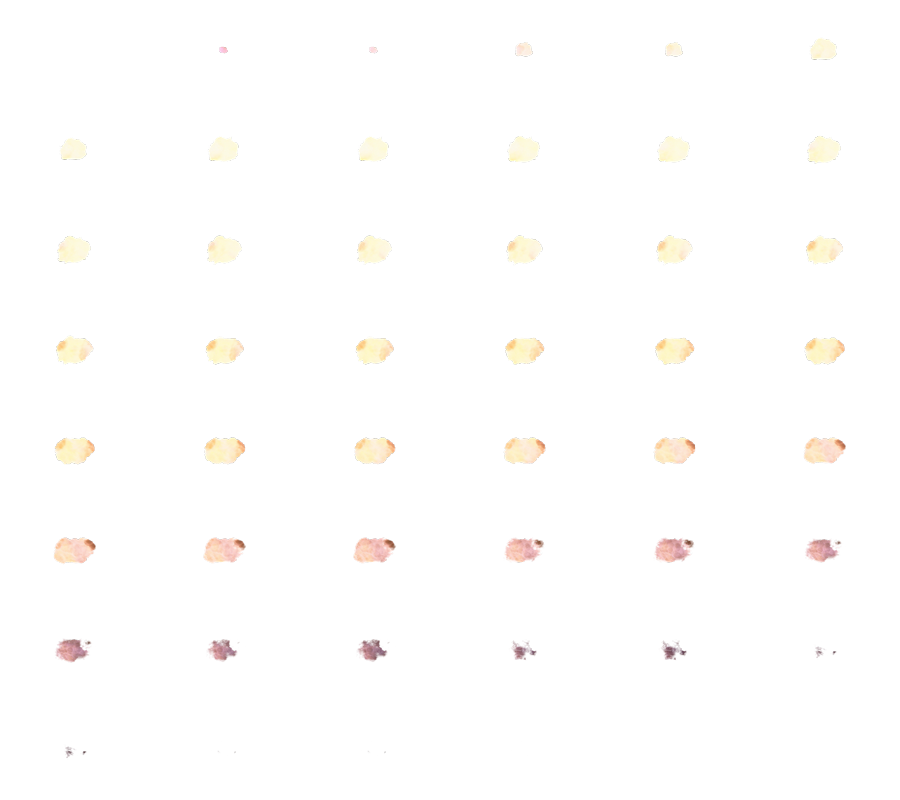
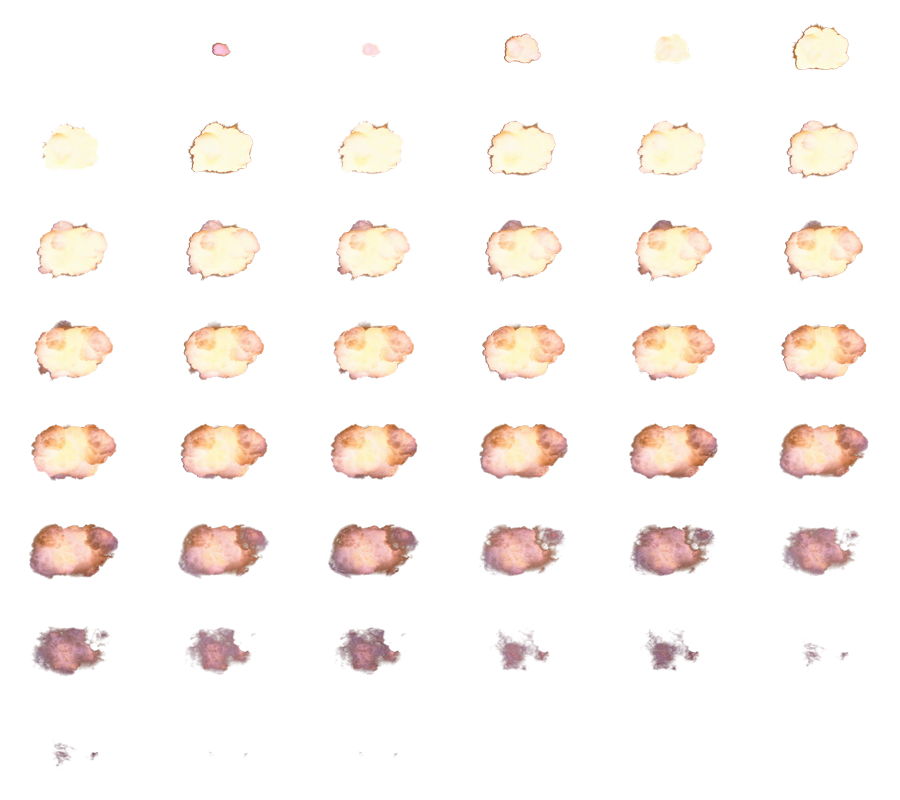
updated alpha

diff --git a/augmented-paintings/into-the-woods_edge.js b/augmented-paintings/into-the-woods_edge.js
@@ -1,2 +1,2 @@
 
-(function($,Edge,compId){var _=null,y=true,n=false,zy='scaleY',t='transform',c='color',x4='rgba(0,0,0,0)',g='image',x1='2.0.1',e27='${_Into-the-Woods-woman}',x35='222.2px 478.20001831055px',e34='${_petal-5}',x33='235px 471px',a='Base State',e17='${_Explosion}',e32='${_petal2}',x21='hidden',s='style',x26='234.5px 477.75001220703px',dt='Default Timeline',qiq='easeInQuad',e28='${_petal1}',x3='2.0.1.268',r='deg',x18='rect(@@0@@px @@1@@px @@2@@px @@3@@px)',qoq='easeOutQuad',x29='219.43646748861px 479.17227172852px',e30='${_petal-4}',p='px',o='opacity',lf='left',e25='${_petal6}',e23='${_petal3}',x24='237.39998168945px 471.09378051758px',e16='${_Poster}',e22='${_explosion_tiny2}',zx='scaleX',x19='rgba(255,255,255,1)',bg='background-color',e15='${_shadow}',cl='clip',qq='easeInOutQuad',h='height',w='width',tp='top',ql='linear',ov='overflow',e20='${_Stage}',x31='230.5px 472px',x14='stage',x2='2.0.0';var im='images/';var g13='explosion_tiny.png',g5='Poster.png',g10='petal-5.png',g9='petal-4.png',g8='petal3.png',g11='petal6.png',g7='petal2.png',g6='petal1.png',g12='shadow.png';var fonts={};var P=Edge.P,T=Edge.T,A=Edge.A;var resources=[];var symbols={"stage":{v:x1,mv:x2,b:x3,bS:a,iS:a,gpu:n,rI:n,cn:{dom:[{id:'Poster',t:g,r:['0px','0px','400px','639px','auto','auto'],f:[x4,im+g5,'0px','0px']},{id:'Into-the-Woods-woman',t:g,r:['0','0','400px','639px','auto','auto'],f:[x4,'Into-the-Woods-woman.png','0px','0px']},{id:'petal1',t:g,r:['206px','470px','27px','18px','auto','auto'],f:[x4,im+g6,'0px','0px']},{id:'petal2',t:g,r:['223px','464px','24px','14px','auto','auto'],f:[x4,im+g7,'0px','0px']},{id:'petal3',t:g,r:['225px','463px','24px','16px','auto','auto'],f:[x4,im+g8,'0px','0px']},{id:'petal-4',t:g,r:['252px','569px','23px','12px','auto','auto'],f:[x4,im+g9,'0px','0px']},{id:'petal-5',t:g,r:['211px','472px','23px','13px','auto','auto'],f:[x4,im+g10,'0px','0px']},{id:'petal6',t:g,r:['223px','470px','23px','15px','auto','auto'],f:[x4,im+g11,'0px','0px']},{id:'shadow',t:g,r:['99px','516px','174px','123px','auto','auto'],o:0.32131958007812,f:[x4,im+g12,'0px','0px']},{id:'Explosion',t:'group',r:['7px','319px','150px','177px','auto','auto'],cl:['rect(0px 146px 192px 0px)'],tf:[[],[],[],['1.05894','0.69492']],c:[{id:'explosion_tiny2',t:g,r:['-2px','176px','900px','800px','auto','auto'],cl:['rect(0px 150px 100px 0px)'],f:[x4,im+g13,'0px','0px'],tf:[[],[],[],['1','1.36']]}]}],sI:[]},s:{},tl:{"Default Timeline":{fS:a,tS:"",d:8166,a:y,tt:[]}}}};var S1=symbols[x14];var tl0=S1.tl[dt].tt,st1=S1.s[a]={},A1=A(_,tl0,st1);A1.A(e15).P(tp,516).P(o,0.32,_,_,"").P(lf,99,_,_,p);A1.A(e16).P(lf,0).P(tp,0);A1.A(e17).P(tp,319).P(zy,0.69492,t,_,"").P(zx,1.05894,t).P(h,177,_,_,p).P(cl,[0,146,192,0],_,x18).P(lf,7).P(w,150);A1.A(e20).P(bg,x19,c).P(w,400).P(h,639).P(ov,x21);A1.A(e22).P(tp,176).P(zy,1.36,t,_,"").P(zx,1,t).P(cl,[0,150,100,0],_,x18).P(lf,-2,_,_,p);A1.A(e23).P("location",x24,"motion").T(4.75,[[237.4,471.09,0,0],[236.92,490.23,1.77,9.04,5.81,29.6],[244.72,499.37,-0.84,32.68,-0.24,9.45],[247,520,0,0]],0.41,ql).T(5.16,[[247,520,0,0],[268.23,528.27,10.2,7.28,28.23,20.16],[272.18,541.37,11.49,8.74,11.74,8.93],[299.19,547.07,19.22,13.65,12.91,9.17],[313.63,571.57,51.71,45.32,15.99,14.01],[345,590,0,0]],2.907).P(zy,0.8,t,_,"").T(5.16,1,2.907).P(zx,0.8,t).T(5.16,1,2.907);A1.A(e25).P("location",x26,"motion").T(5.078,[[234.5,477.75,0,0],[231.23,492.67,0.38,18.15,0.52,24.91],[238.3,510.5,3.48,23.45,2.65,17.83],[235.5,525.5,0,0]],0.49,ql).T(5.568,[[235.5,525.5,0,0],[235.47,534.39,12.21,5.46,16.08,7.19],[259.15,535.18,32.45,6.64,18.4,3.77],[273.5,542.5,0,0]],1.14);A1.A(e27).P(zx,1,t,_,"").T(4.25,1.01,1,ql).T(5.25,1,1,qiq).P(zy,1,t).T(4.25,1.01,1,qoq).T(5.25,1,1,qiq).P("filter.hue-rotate",0,"subproperty",_,r).T(4.25,360,2,ql);A1.A(e28).P(zx,0.6,t,_,"").T(4.25,0.9,0.5,ql).T(4.75,1,3.416).P(zy,0.9,t).T(4.25,0.9).T(4.75,1,3.416).P("location",x29,"motion").T(4.25,[[219.44,479.17,0,0],[220.48,494.4,-4.51,14.5,-6.57,21.13],[215.29,504.37,2.53,31.73,1.29,16.19],[213.89,517.41,0,0]],0.5,qq).T(4.75,[[213.89,517.41,0,0],[210.18,528.63,13.45,21.87,11.76,19.13],[225.83,541.66,-6.04,32.04,-3.59,19.03],[211.06,551.91,-31.77,7.29,-40.09,9.2],[182.42,564.52,-32.23,6.13,-40.81,7.76],[115.21,565.69,-62.19,0.73,-39.18,0.46],[100.58,587.94,-122.32,50.13,-23.13,9.48],[100.5,611,0,0]],3.416,ql);A1.A(e30).P(zx,0.9,t,_,"").T(4.553,1,2.63,ql).P(zy,0.9,t).T(4.553,1,2.63).P("location",x31,"motion").T(4.553,[[230.5,472,0,0],[230.5,516,0,0]],0.401).T(4.954,[[230.5,516,0,0],[263.5,575,0,0]],2.229);A1.A(e32).P("location",x33,"motion").T(4.25,[[235,471,0,0],[228.47,486.8,0,20.06,0,28.21],[237.59,508.04,5.72,34.81,3.55,21.62],[235,530,0,0]],0.617,ql).T(4.867,[[235,530,0,0],[236.95,546.78,-17.21,21.07,-19.19,23.5],[198.8,564.36,-41.12,33.75,-27.07,22.22],[186,590,0,0]],2.426);A1.A(e34).P(zx,0.8,t,_,"").T(5.331,1,1.594,ql).P(zy,0.8,t).T(5.331,1,1.594).P("location",x35,"motion").T(4.93,[[222.2,478.2,0,0],[220.69,487.15,-0.23,13.72,-0.27,15.66],[223.6,502.79,0.74,26.57,0.45,16.04],[221.5,519.5,0,0]],0.401).T(5.331,[[221.5,519.5,0,0],[223.82,529.52,3,5.28,8.47,14.9],[233.2,534.4,-18.47,58.03,-2.15,6.75],[246.5,563.5,0,0]],1.594);Edge.registerCompositionDefn(compId,symbols,fonts,resources);$(window).ready(function(){Edge.launchComposition(compId);});})(jQuery,AdobeEdge,"EDGE-75241278");
+(function($,Edge,compId){var _=null,y=true,n=false,zy='scaleY',t='transform',c='color',x4='rgba(0,0,0,0)',g='image',x1='2.0.1',e27='${_Into-the-Woods-woman}',x35='222.2px 478.20001831055px',e34='${_petal-5}',x33='235px 471px',a='Base State',e16='${_Explosion}',e32='${_petal2}',x21='hidden',s='style',x26='234.5px 477.75001220703px',cl='clip',dt='Default Timeline',qiq='easeInQuad',e28='${_petal1}',x3='2.0.1.268',r='deg',x17='rect(@@0@@px @@1@@px @@2@@px @@3@@px)',qoq='easeOutQuad',x29='219.43646748861px 479.17227172852px',e30='${_petal-4}',p='px',o='opacity',lf='left',e25='${_petal6}',e23='${_petal3}',x24='237.39998168945px 471.09378051758px',h='height',e22='${_explosion_tiny2}',tp='top',e18='${_Poster}',x19='rgba(255,255,255,1)',bg='background-color',e15='${_shadow}',qq='easeInOutQuad',w='width',zx='scaleX',ql='linear',ov='overflow',e20='${_Stage}',x31='230.5px 472px',x14='stage',x2='2.0.0';var im='images/';var g8='petal3.png',g5='Poster.png',g10='petal-5.png',g11='petal6.png',g13='explosion_tiny.png',g7='petal2.png',g6='petal1.png',g9='petal-4.png',g12='shadow.png';var fonts={};var P=Edge.P,T=Edge.T,A=Edge.A;var resources=[];var symbols={"stage":{v:x1,mv:x2,b:x3,bS:a,iS:a,gpu:n,rI:n,cn:{dom:[{id:'Poster',t:g,r:['0px','0px','400px','639px','auto','auto'],f:[x4,im+g5,'0px','0px']},{id:'Into-the-Woods-woman',t:g,r:['0','0','400px','639px','auto','auto'],f:[x4,'Into-the-Woods-woman.png','0px','0px']},{id:'petal1',t:g,r:['206px','470px','27px','18px','auto','auto'],f:[x4,im+g6,'0px','0px']},{id:'petal2',t:g,r:['223px','464px','24px','14px','auto','auto'],f:[x4,im+g7,'0px','0px']},{id:'petal3',t:g,r:['225px','463px','24px','16px','auto','auto'],f:[x4,im+g8,'0px','0px']},{id:'petal-4',t:g,r:['252px','569px','23px','12px','auto','auto'],f:[x4,im+g9,'0px','0px']},{id:'petal-5',t:g,r:['211px','472px','23px','13px','auto','auto'],f:[x4,im+g10,'0px','0px']},{id:'petal6',t:g,r:['223px','470px','23px','15px','auto','auto'],f:[x4,im+g11,'0px','0px']},{id:'shadow',t:g,r:['99px','516px','174px','123px','auto','auto'],o:0.32131958007812,f:[x4,im+g12,'0px','0px']},{id:'Explosion',t:'group',r:['7px','319px','150px','177px','auto','auto'],cl:['rect(0px 146px 192px 0px)'],tf:[[],[],[],['1.05894','0.69492']],c:[{id:'explosion_tiny2',t:g,r:['212px','430px','900px','800px','auto','auto'],cl:['rect(0px 150px 100px 0px)'],f:[x4,im+g13,'0px','0px'],tf:[[],[],[],['1.55873','2.11988']]}]}],sI:[]},s:{},tl:{"Default Timeline":{fS:a,tS:"",d:8166,a:y,tt:[]}}}};var S1=symbols[x14];var tl0=S1.tl[dt].tt,st1=S1.s[a]={},A1=A(_,tl0,st1);A1.A(e15).P(tp,516).P(o,0.32,_,_,"").P(lf,99,_,_,p);A1.A(e16).P(tp,319).P(zy,0.69492,t,_,"").P(h,177,_,_,p).P(zx,1.05894,t,_,"").P(lf,7,_,_,p).P(cl,[0,146,192,0],_,x17).P(w,150);A1.A(e18).P(lf,0).P(tp,0);A1.A(e20).P(bg,x19,c).P(ov,x21).P(h,639).P(w,400);A1.A(e22).P(tp,430).P(zy,2.11988,t,_,"").P(zx,1.55873,t).P(cl,[0,150,100,0],_,x17).P(lf,212,_,_,p);A1.A(e23).P("location",x24,"motion").T(4.75,[[237.4,471.09,0,0],[236.92,490.23,1.77,9.04,5.81,29.6],[244.72,499.37,-0.84,32.68,-0.24,9.45],[247,520,0,0]],0.41,ql).T(5.16,[[247,520,0,0],[268.23,528.27,10.2,7.28,28.23,20.16],[272.18,541.37,11.49,8.74,11.74,8.93],[299.19,547.07,19.22,13.65,12.91,9.17],[313.63,571.57,51.71,45.32,15.99,14.01],[345,590,0,0]],2.907).P(zy,0.8,t,_,"").T(5.16,1,2.907).P(zx,0.8,t).T(5.16,1,2.907);A1.A(e25).P("location",x26,"motion").T(5.078,[[234.5,477.75,0,0],[231.23,492.67,0.38,18.15,0.52,24.91],[238.3,510.5,3.48,23.45,2.65,17.83],[235.5,525.5,0,0]],0.49,ql).T(5.568,[[235.5,525.5,0,0],[235.47,534.39,12.21,5.46,16.08,7.19],[259.15,535.18,32.45,6.64,18.4,3.77],[273.5,542.5,0,0]],1.14);A1.A(e27).P(zx,1,t,_,"").T(4.25,1.01,1,ql).T(5.25,1,1,qiq).P(zy,1,t).T(4.25,1.01,1,qoq).T(5.25,1,1,qiq).P("filter.hue-rotate",0,"subproperty",_,r).T(4.25,360,2,ql);A1.A(e28).P(zx,0.6,t,_,"").T(4.25,0.9,0.5,ql).T(4.75,1,3.416).P(zy,0.9,t).T(4.25,0.9).T(4.75,1,3.416).P("location",x29,"motion").T(4.25,[[219.44,479.17,0,0],[220.48,494.4,-4.51,14.5,-6.57,21.13],[215.29,504.37,2.53,31.73,1.29,16.19],[213.89,517.41,0,0]],0.5,qq).T(4.75,[[213.89,517.41,0,0],[210.18,528.63,13.45,21.87,11.76,19.13],[225.83,541.66,-6.04,32.04,-3.59,19.03],[211.06,551.91,-31.77,7.29,-40.09,9.2],[182.42,564.52,-32.23,6.13,-40.81,7.76],[115.21,565.69,-62.19,0.73,-39.18,0.46],[100.58,587.94,-122.32,50.13,-23.13,9.48],[100.5,611,0,0]],3.416,ql);A1.A(e30).P(zx,0.9,t,_,"").T(4.553,1,2.63,ql).P(zy,0.9,t).T(4.553,1,2.63).P("location",x31,"motion").T(4.553,[[230.5,472,0,0],[230.5,516,0,0]],0.401).T(4.954,[[230.5,516,0,0],[263.5,575,0,0]],2.229);A1.A(e32).P("location",x33,"motion").T(4.25,[[235,471,0,0],[228.47,486.8,0,20.06,0,28.21],[237.59,508.04,5.72,34.81,3.55,21.62],[235,530,0,0]],0.617,ql).T(4.867,[[235,530,0,0],[236.95,546.78,-17.21,21.07,-19.19,23.5],[198.8,564.36,-41.12,33.75,-27.07,22.22],[186,590,0,0]],2.426);A1.A(e34).P("location",x35,"motion").T(4.93,[[222.2,478.2,0,0],[220.69,487.15,-0.23,13.72,-0.27,15.66],[223.6,502.79,0.74,26.57,0.45,16.04],[221.5,519.5,0,0]],0.401,ql).T(5.331,[[221.5,519.5,0,0],[223.82,529.52,3,5.28,8.47,14.9],[233.2,534.4,-18.47,58.03,-2.15,6.75],[246.5,563.5,0,0]],1.594).P(zy,0.8,t,_,"").T(5.331,1,1.594).P(zx,0.8,t).T(5.331,1,1.594);Edge.registerCompositionDefn(compId,symbols,fonts,resources);$(window).ready(function(){Edge.launchComposition(compId);});})(jQuery,AdobeEdge,"EDGE-75241278");
